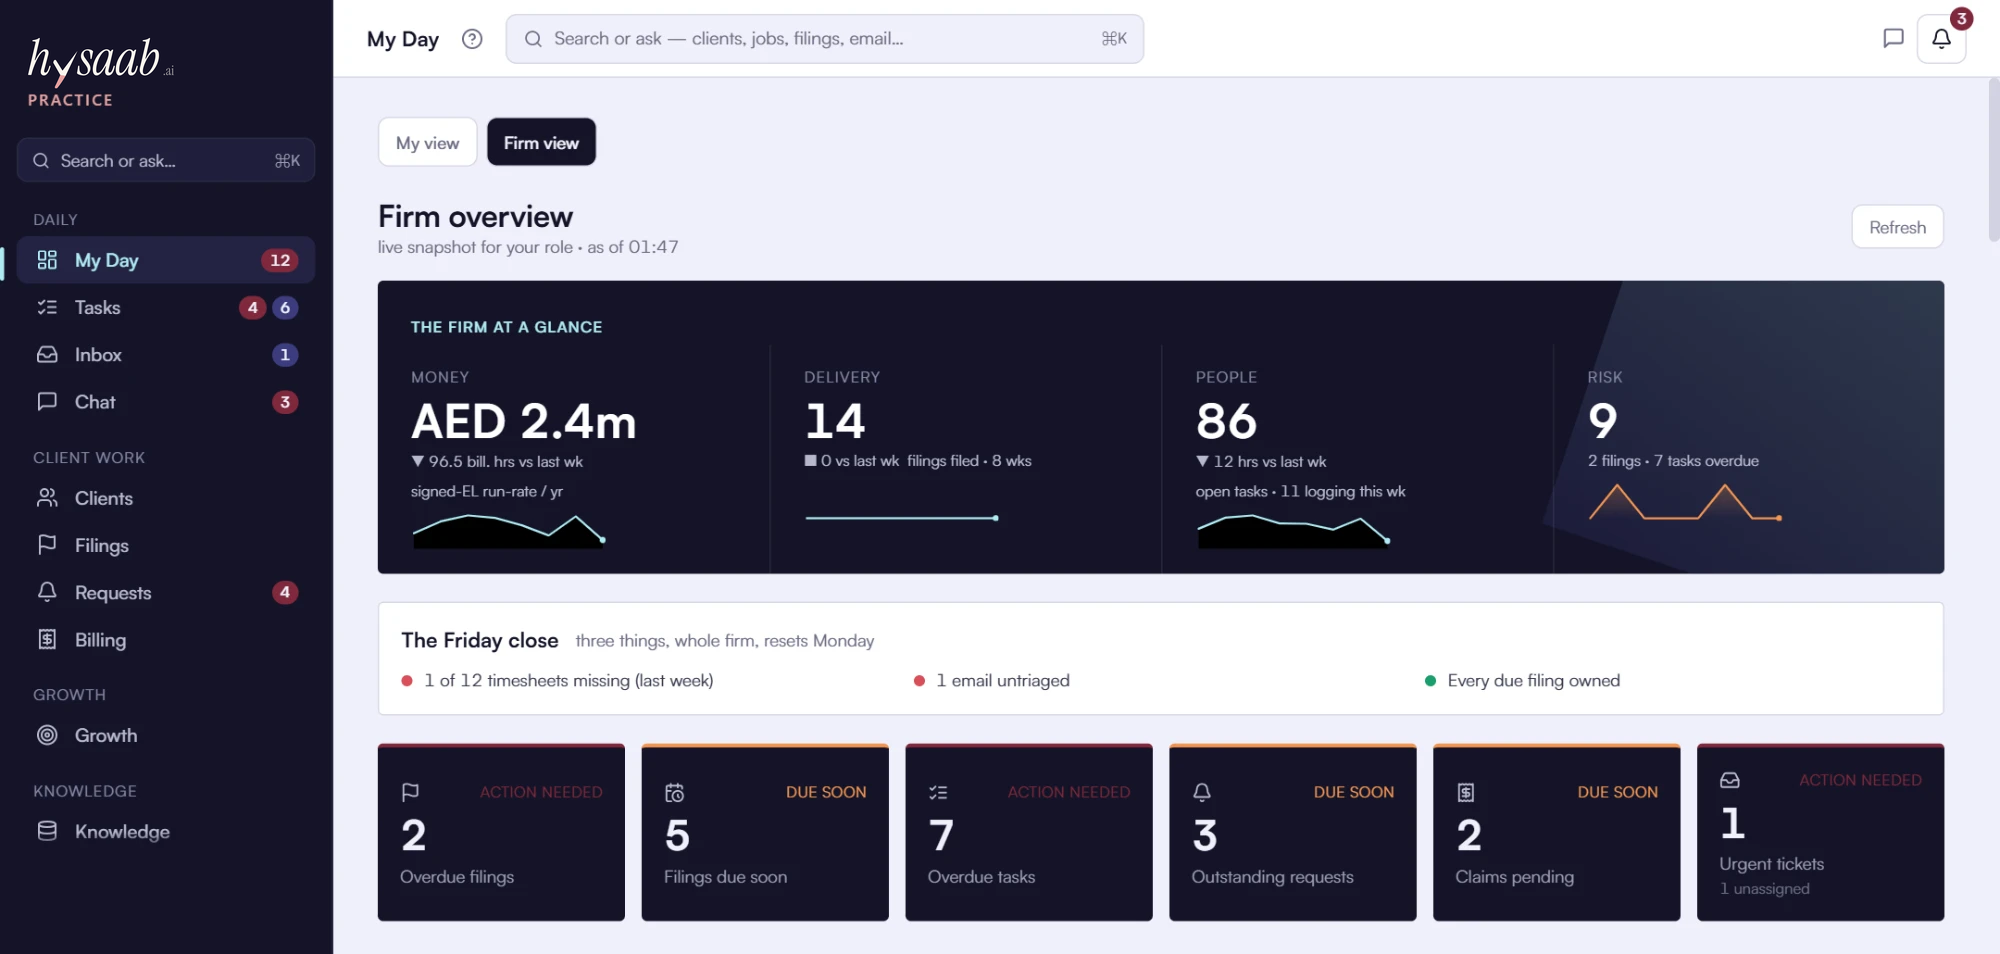
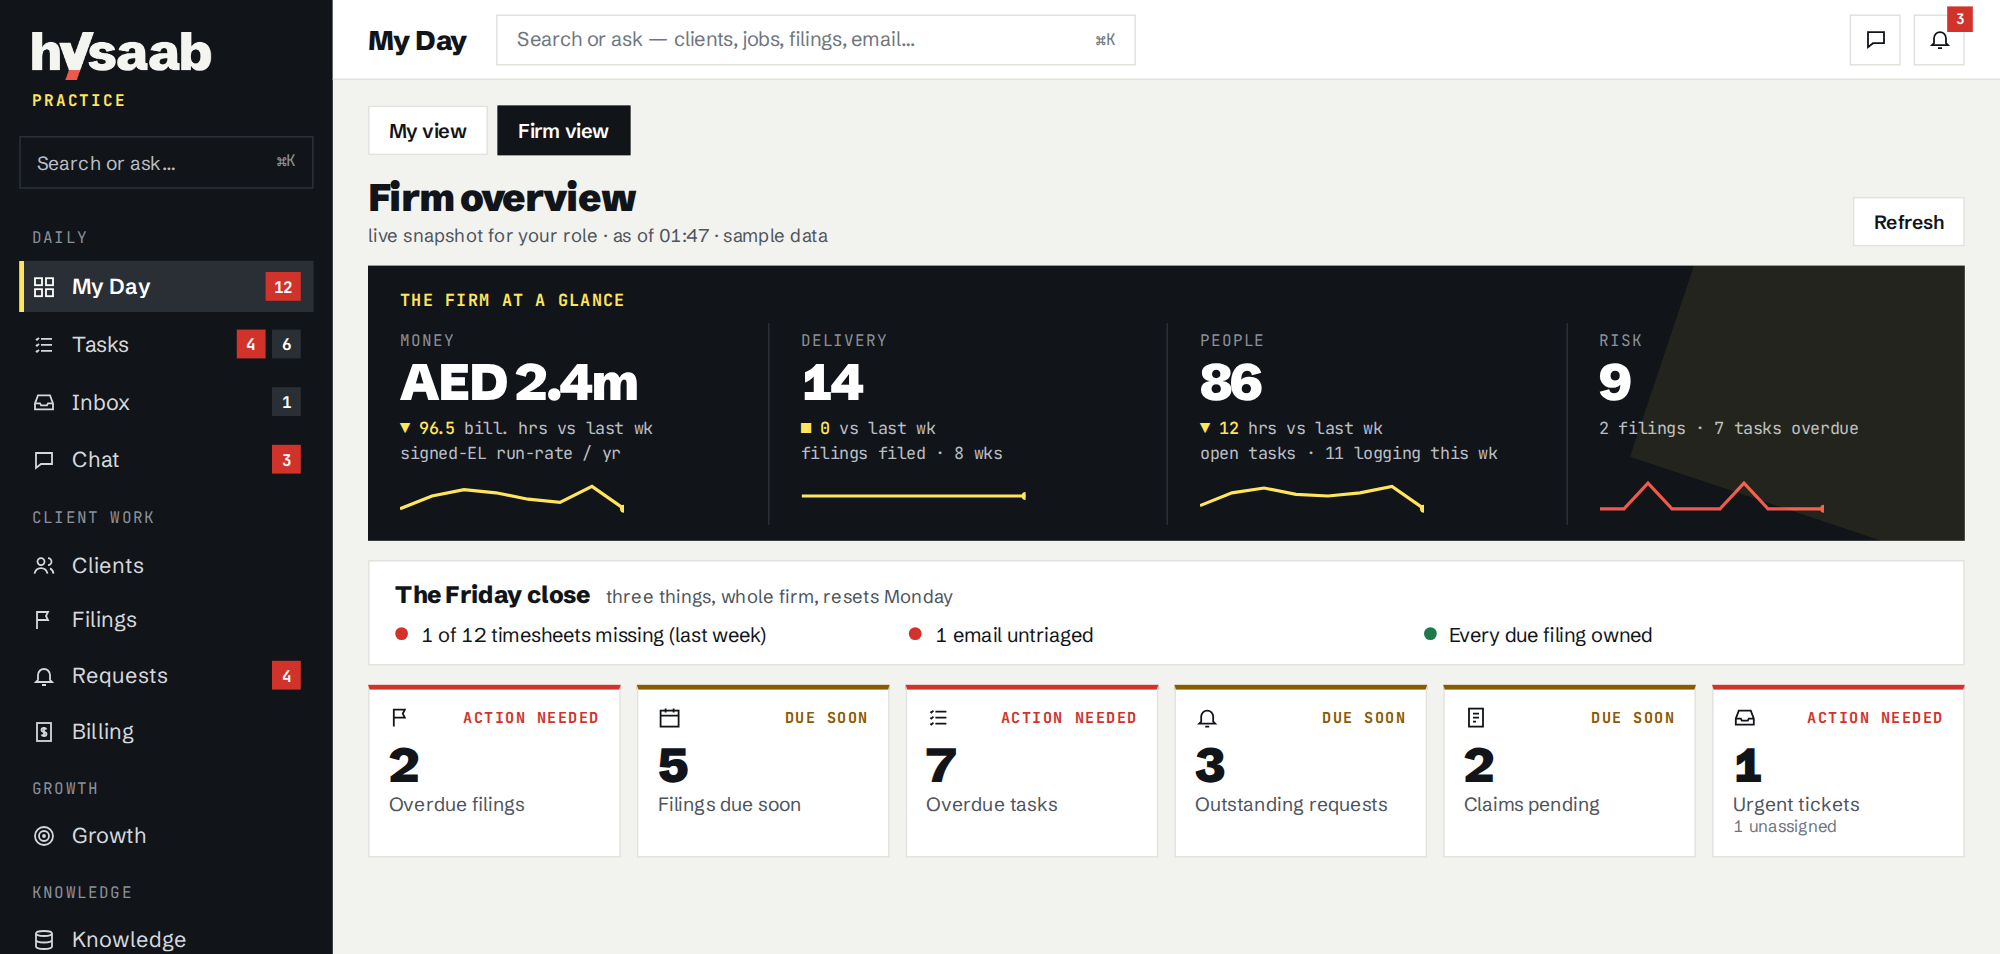
Invoice photo in the chat, Practice screen reskinned, independence wording
- Homepage: Rashid's WhatsApp bubble showed a hatched "INV-4471 · photo"
  placeholder. It now shows a photo of the Gulf Technical Supplies tax
  invoice (public/home/inv-4471-photo.jpg), drawn from the Demo's own
  figures: 3,200 + 640 + 150 = 3,990.00, VAT 5% 199.50, total 4,189.50.
- p-practice.png: the Hysaab Practice firm overview in Tick & Tie (ink
  sidebar, highlighter accents, Hysaab Grotesk/Mono), same layout, labels
  and sample figures as before.
- /firms (en + ar): no longer says Practice and Audit share "the same
  clients, the same file room"; each keeps its own client records and the
  firm's independence rules decide who works on which client.

Claude-Session: https://claude.ai/code/session_01QfKEbqKpFncXbPW1S3saiE

diff --git a/app/(en)/page.tsx b/app/(en)/page.tsx
@@ -192,7 +192,7 @@ export default function Page() {
               <div className="tt-chat" aria-label="Example WhatsApp exchange, illustrative" data-reveal="">
                 <div className="tt-chat-h"><span>WhatsApp · Hysaab</span><span>21:00</span></div>
                 <div className="tt-chat-b">
-                  <div className="tt-bub tt-bub--me"><div className="tt-photo">INV-4471 · photo</div>Gulf Technical invoice for the Dubai office<span className="tt-meta">Rashid · 21:00</span></div>
+                  <div className="tt-bub tt-bub--me"><img className="tt-photo" src="/home/inv-4471-photo.jpg" width={880} height={660} alt="Photo of Gulf Technical Supplies tax invoice INV-4471, 12 Sep 2026: AED 3,990.00 plus VAT 199.50, total AED 4,189.50. Sample document." loading="lazy" />Gulf Technical invoice for the Dubai office<span className="tt-meta">Rashid · 21:00</span></div>
                   <div className="tt-bub tt-bub--hy">Got it. Reading now.
                     <span className="tt-bub-r"><Tm m="✓" />Tax invoice · TRN valid</span>
                     <span className="tt-bub-r"><Tm m="T" />IT equipment · Dubai office · 96%</span>

diff --git a/app/tick-tie.css b/app/tick-tie.css
@@ -94,7 +94,9 @@ html[dir="rtl"] .tt-strip-track { animation-direction: reverse; }
 .tt-meta { display: block; font: 400 11px var(--hw-mono); opacity: 0.7; margin-top: 6px; }
 .tt-bub-r { display: flex; gap: 8px; align-items: center; margin-top: 4px; }
 .tt-bub--hy .tt-tm { color: var(--hw-blush); font-size: 19px; }
-.tt-photo { height: 84px; border: 1px dashed #C9B24A; display: grid; place-items: center; font: 400 11.5px var(--hw-mono); color: var(--hw-supporting); margin-bottom: 8px; background: repeating-linear-gradient(-45deg, transparent 0 8px, rgba(201, 178, 74, 0.18) 8px 9px); }
+/* Rashid's WhatsApp photo of INV-4471 (public/home/inv-4471-photo.jpg, a sample
+   document drawn from the Demo figures: 3,990.00 + VAT 199.50 = 4,189.50). */
+.tt-photo { display: block; width: 100%; height: auto; aspect-ratio: 4 / 3; object-fit: cover; margin-bottom: 8px; border: 1px solid rgba(17, 20, 24, 0.12); }
 
 /* ── audit trail ── */
 .tt-trail { margin-top: 48px; border-top: 2px solid var(--hw-ink); overflow-x: auto; background: var(--hw-cream); }

diff --git a/app/ar/firms/page.tsx b/app/ar/firms/page.tsx
@@ -135,7 +135,7 @@ export default function PracticePage() {
               <p className="hw-eyebrow">Hysaab Audit</p>
               <h2>إن كنت توقّع آراء التدقيق،<br /><span>فالملف يعمل هنا أيضًا.</span></h2>
             </div>
-            <p>بُني Hysaab Audit على العملاء أنفسهم وغرفة الملفات نفسها والقاعدة نفسها: المحركات تحسب، وشخص مرخّص يستنتج. اشترِه وحده أو مع Hysaab Practice.</p>
+            <p>يتبع Hysaab Audit القاعدة نفسها: المحركات تحسب، وشخص مرخّص يستنتج. اشترِه وحده أو مع Hysaab Practice. لكلٍّ منهما سجلات عملائه الخاصة، وقواعد الاستقلالية في مكتبك تحدد من يعمل على أي عميل.</p>
           </div>
           <div className="hw-cards">
             <article>

diff --git a/app/(en)/firms/page.tsx b/app/(en)/firms/page.tsx
@@ -166,7 +166,7 @@ export default function PracticePage() {
               <p className="hw-eyebrow">Hysaab Audit</p>
               <h2>If you sign audit opinions,<br /><span>the file runs here too.</span></h2>
             </div>
-            <p>Hysaab Audit is built on the same clients, the same file room and the same rule: the engines compute, a licensed human concludes. Buy it on its own or with Hysaab Practice.</p>
+            <p>Hysaab Audit follows the same rule: the engines compute, a licensed human concludes. Buy it on its own or with Hysaab Practice. Each keeps its own client records, so your independence rules decide who works on which client.</p>
           </div>
           <div className="hw-cards">
             <article>
